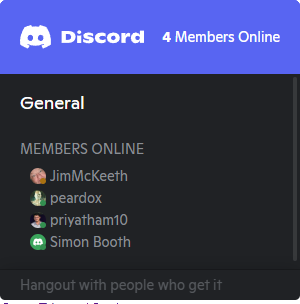
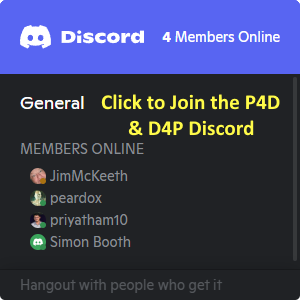
Add join discord text to image

diff --git a/README.md b/README.md
@@ -1,4 +1,4 @@
-# MakeP4DComponents <a href="https://discord.gg/SgwW3tTz3p"><img align="right" width="300" height="304" src="images/discord.png"></a>
+# MakeP4DComponents <a href="https://discord.gg/SgwW3tTz3p"><img align="right" width="300" height="300" src="images/discord.png"></a>
 
 Provides a user-friendly 'Wizard' to allow the creation of Delphi Components for the P4D Suite of projects
 
